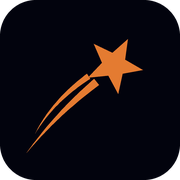
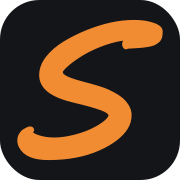
Replace the brand mark with the X2b20 wordmark (#96)
* Replace the brand mark with the X2b20 wordmark.

Headers use the outline Invest and brush Salsa lockup. Favicon and app icons use the orange S, and the share image keeps Freedom, Engineered.

* Match the wordmark to the approved X2b20 lockup.

Scale Invest so its cap is about three quarters of Salsa, draw it as a heavier hollow slab, and set Salsa in a thicker Kaushan brush with a shorter underline. Header logos stay readable on desktop and mobile. The S favicon and OG copy are unchanged.

* Smooth the Salsa outline and replace the double bar with one brush swash.

Kaushan glyphs stay as font beziers and thicken with a round stroke, and a single tapered swash rises under the word. Invest, the size ratio, the header, and the S favicon stay as they are.

---------

diff --git a/src/components/layout/brand-logo.tsx b/src/components/layout/brand-logo.tsx
@@ -11,9 +11,7 @@ interface BrandLogoProps {
 
 const TAGLINE = "Retire, engineered.";
 
-const ICON = BRAND.logoMark;
-
-/** Growth line + salsa swooshes — the locked InvestSalsa mark. */
+/** Brush S from the wordmark. Outline letters disappear at this size. */
 export function SalsaMark({
   className,
   size = 32,
@@ -27,7 +25,7 @@ export function SalsaMark({
     // next/image rejects SVG sources. The mark is a few-KB transparent file.
     // eslint-disable-next-line @next/next/no-img-element
     <img
-      src={ICON}
+      src={BRAND.logoMark}
       alt=""
       width={size}
       height={size}
@@ -47,17 +45,28 @@ export function CometMark(props: {
   return <SalsaMark {...props} />;
 }
 
-export function BrandWordmark({ className }: { className?: string }) {
+/** Full InvestSalsa wordmark. Paths only — no webfont. */
+export function BrandWordmark({
+  className,
+  priority = false,
+}: {
+  className?: string;
+  priority?: boolean;
+}) {
   return (
-    <span
+    // eslint-disable-next-line @next/next/no-img-element
+    <img
+      src={BRAND.wordmark}
+      alt="InvestSalsa"
+      width={456}
+      height={100}
+      decoding="async"
+      fetchPriority={priority ? "high" : "auto"}
       className={cn(
-        "brand-wordmark inline-flex items-baseline whitespace-nowrap font-semibold",
+        "brand-wordmark-svg h-9 w-auto shrink-0 object-contain md:h-11",
         className,
       )}
-    >
-      <span className="brand-text-invest">Invest</span>
-      <span className="brand-text-salsa">Salsa</span>
-    </span>
+    />
   );
 }
 
@@ -82,40 +91,19 @@ export function BrandLogo({
       content = <SalsaMark className={className} priority={priority} />;
       break;
 
-    case "lockup":
-      content = (
-        <div className={cn("flex min-w-0 items-center gap-2.5", className)}>
-          <SalsaMark priority={priority} />
-          <BrandWordmark className="type-body leading-none" />
-        </div>
-      );
-      break;
-
     case "hero":
       content = (
-        <div className={cn("flex items-center gap-3", className)}>
-          <SalsaMark className="size-16" size={64} priority={priority} />
-          <div className="flex flex-col items-start gap-1">
-            <BrandWordmark className="type-h1 leading-none" />
-            <BrandTagline className="text-sm" />
-          </div>
+        <div className={cn("flex flex-col items-start gap-2", className)}>
+          <BrandWordmark className="h-16 max-w-none sm:h-20 md:h-20" priority={priority} />
+          <BrandTagline className="text-sm" />
         </div>
       );
       break;
 
     default:
       content = (
-        <div
-          className={cn(
-            "flex min-w-0 items-center gap-2.5 group-data-[collapsible=icon]:justify-center",
-            className,
-          )}
-        >
-          <SalsaMark
-            className="size-8 group-data-[collapsible=icon]:size-8"
-            priority={priority}
-          />
-          <BrandWordmark className="type-body leading-none group-data-[collapsible=icon]:hidden" />
+        <div className={cn("flex min-w-0 items-center", className)}>
+          <BrandWordmark priority={priority} />
         </div>
       );
       break;
@@ -123,7 +111,7 @@ export function BrandLogo({
 
   if (asLink) {
     return (
-      <MarketingHomeLink className="inline-flex transition-opacity duration-200 hover:opacity-80">
+      <MarketingHomeLink className="inline-flex shrink-0 items-center transition-opacity duration-200 hover:opacity-80">
         {content}
       </MarketingHomeLink>
     );

diff --git a/src/components/auth/auth-page-shell.tsx b/src/components/auth/auth-page-shell.tsx
@@ -1,12 +1,12 @@
-import { BrandWordmark, SalsaMark } from "@/components/layout/brand-logo";
+import { BrandWordmark } from "@/components/layout/brand-logo";
 import { PublicFooter, PublicHeader } from "@/components/layout/public-chrome";
 
 function AuthPanelMark() {
   return (
-    <div className="flex flex-col items-center gap-4">
-      <SalsaMark className="size-28" size={112} priority />
-      <BrandWordmark className="type-h1" />
-    </div>
+    <BrandWordmark
+      className="h-14 w-auto max-w-[18rem] sm:h-[4.5rem] md:h-[4.5rem]"
+      priority
+    />
   );
 }
 

diff --git a/src/components/layout/app-shell.tsx b/src/components/layout/app-shell.tsx
@@ -21,9 +21,8 @@ import {
 function AppShellHeader() {
   return (
     <header className="portal-header portal-header--app sticky top-0 z-20 flex h-14 shrink-0 items-center gap-3 px-4 sm:px-5 lg:px-7">
-      <BrandHomeLink className="flex min-w-0 items-center gap-2.5">
+      <BrandHomeLink className="flex shrink-0 items-center">
         <BrandLogo variant="sidebar" priority />
-        <span className="sr-only">InvestSalsa</span>
       </BrandHomeLink>
       <SignedInHeaderNav />
       <div className="ml-auto">

diff --git a/src/components/layout/public-chrome.tsx b/src/components/layout/public-chrome.tsx
@@ -26,7 +26,7 @@ function PublicHeader({ innerClassName }: { innerClassName?: string }) {
     <header className="portal-header sticky top-0 z-20">
       <div
         className={cn(
-          "mx-auto flex h-14 w-full items-center justify-between gap-2 px-4 sm:h-16 sm:px-6",
+          "mx-auto flex min-h-14 w-full flex-wrap items-center justify-between gap-x-3 gap-y-2 px-4 py-2 sm:px-6 md:h-16 md:flex-nowrap md:py-0",
           innerClassName,
         )}
       >

diff --git a/src/app/layout.tsx b/src/app/layout.tsx
@@ -33,6 +33,7 @@ export const metadata: Metadata = {
   icons: {
     icon: [
       { url: BRAND.favicon, type: "image/svg+xml" },
+      { url: "/favicon.ico", sizes: "any" },
       { url: "/favicon-32.png", sizes: "32x32", type: "image/png" },
       { url: "/favicon-16.png", sizes: "16x16", type: "image/png" },
       { url: BRAND.appIcon, sizes: "192x192", type: "image/png" },

diff --git a/src/lib/brand/assets.ts b/src/lib/brand/assets.ts
@@ -1,5 +1,6 @@
-/** Public mark and social image. Raster lockups are generated from these. */
+/** Wordmark, small S mark, and social image. */
 export const BRAND = {
+  wordmark: "/brand/logo-wordmark.svg",
   logoMark: "/brand/logo-mark.svg",
   favicon: "/favicon.svg",
   appIcon: "/brand/app-icon.png",

diff --git a/scripts/generate-salsa-brand.py b/scripts/generate-salsa-brand.py
@@ -1,13 +1,16 @@
 #!/usr/bin/env python3
-"""InvestSalsa mark is the transparent SVG at public/brand/logo-mark.svg.
+"""InvestSalsa wordmark is public/brand/logo-wordmark.svg.
 
-Header, favicon, apple icon, and app icon use that drawing (or a small PNG
-made from it). Do not write charcoal tiles, comet files, or Freedom stills.
+Header lockups use that wordmark (outline Invest + brush Salsa).
+Favicon, apple icon, and app icon use the orange brush S on a #141518
+rounded square (public/favicon.svg and the PNG/ICO siblings).
+public/brand/logo-mark.svg is the same S on a transparent square.
 """
 
 
 def main() -> None:
-    print("Brand mark is public/brand/logo-mark.svg. Legacy tile export is retired.")
+    print("Wordmark: public/brand/logo-wordmark.svg")
+    print("S mark: public/brand/logo-mark.svg and public/favicon.svg")
 
 
 if __name__ == "__main__":
